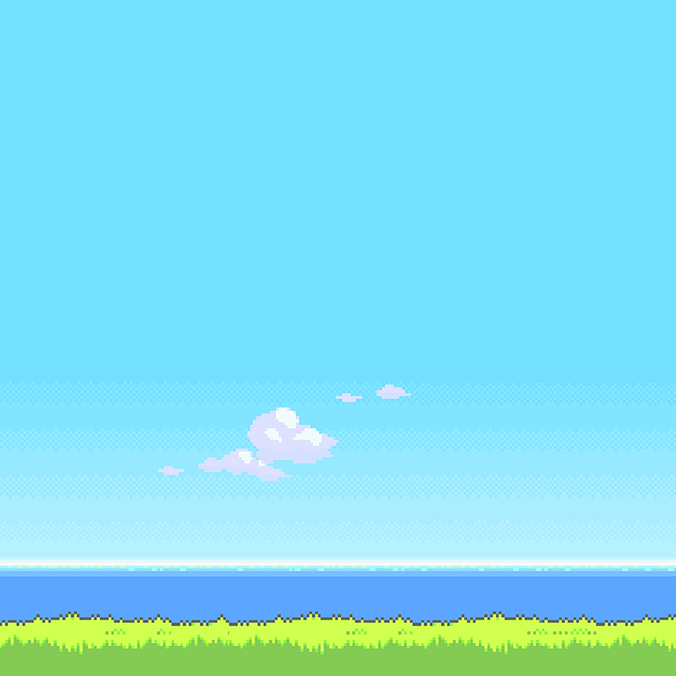
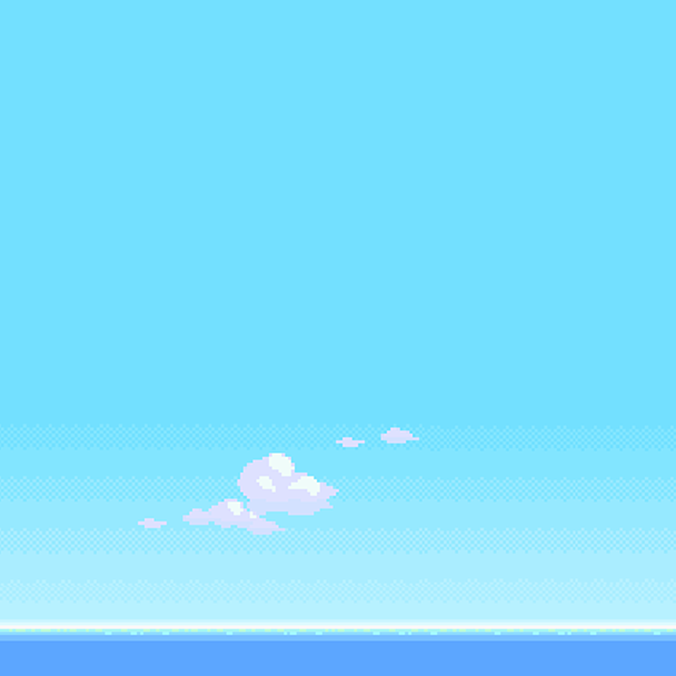
updated

Changed region(s): [[0.0, 0.5902, 1.0, 1.0], [0.5592, 0.5592, 0.6213, 0.5902], [0.497, 0.5592, 0.5281, 0.5902]]

diff --git a/SquirrelDefender.html b/SquirrelDefender.html
@@ -61,7 +61,7 @@
         platforms.enableBody = true;
 
         // Here we create the ground.
-        var ground = platforms.create(0, game.world.height - 64, 'ground');
+        var ground = platforms.create(0, game.world.height - 30, 'ground');
 
         //  Scale it to fit the width of the game (the original sprite is 400x32 in size)
         ground.scale.setTo(10, 2);
@@ -132,16 +132,12 @@
         bullets.setAll('outOfBoundsKill', true);
         bullets.setAll('checkWorldBounds', true);
 
-
         //  Our controls.
         cursors = game.input.keyboard.createCursorKeys();
         fireButton = game.input.keyboard.addKey(Phaser.Keyboard.SPACEBAR);
 
-        prevCamX = game.camera.x;
-
         // Generate some cyclists
         releaseWheels();
-
     }
 
     function update() {
